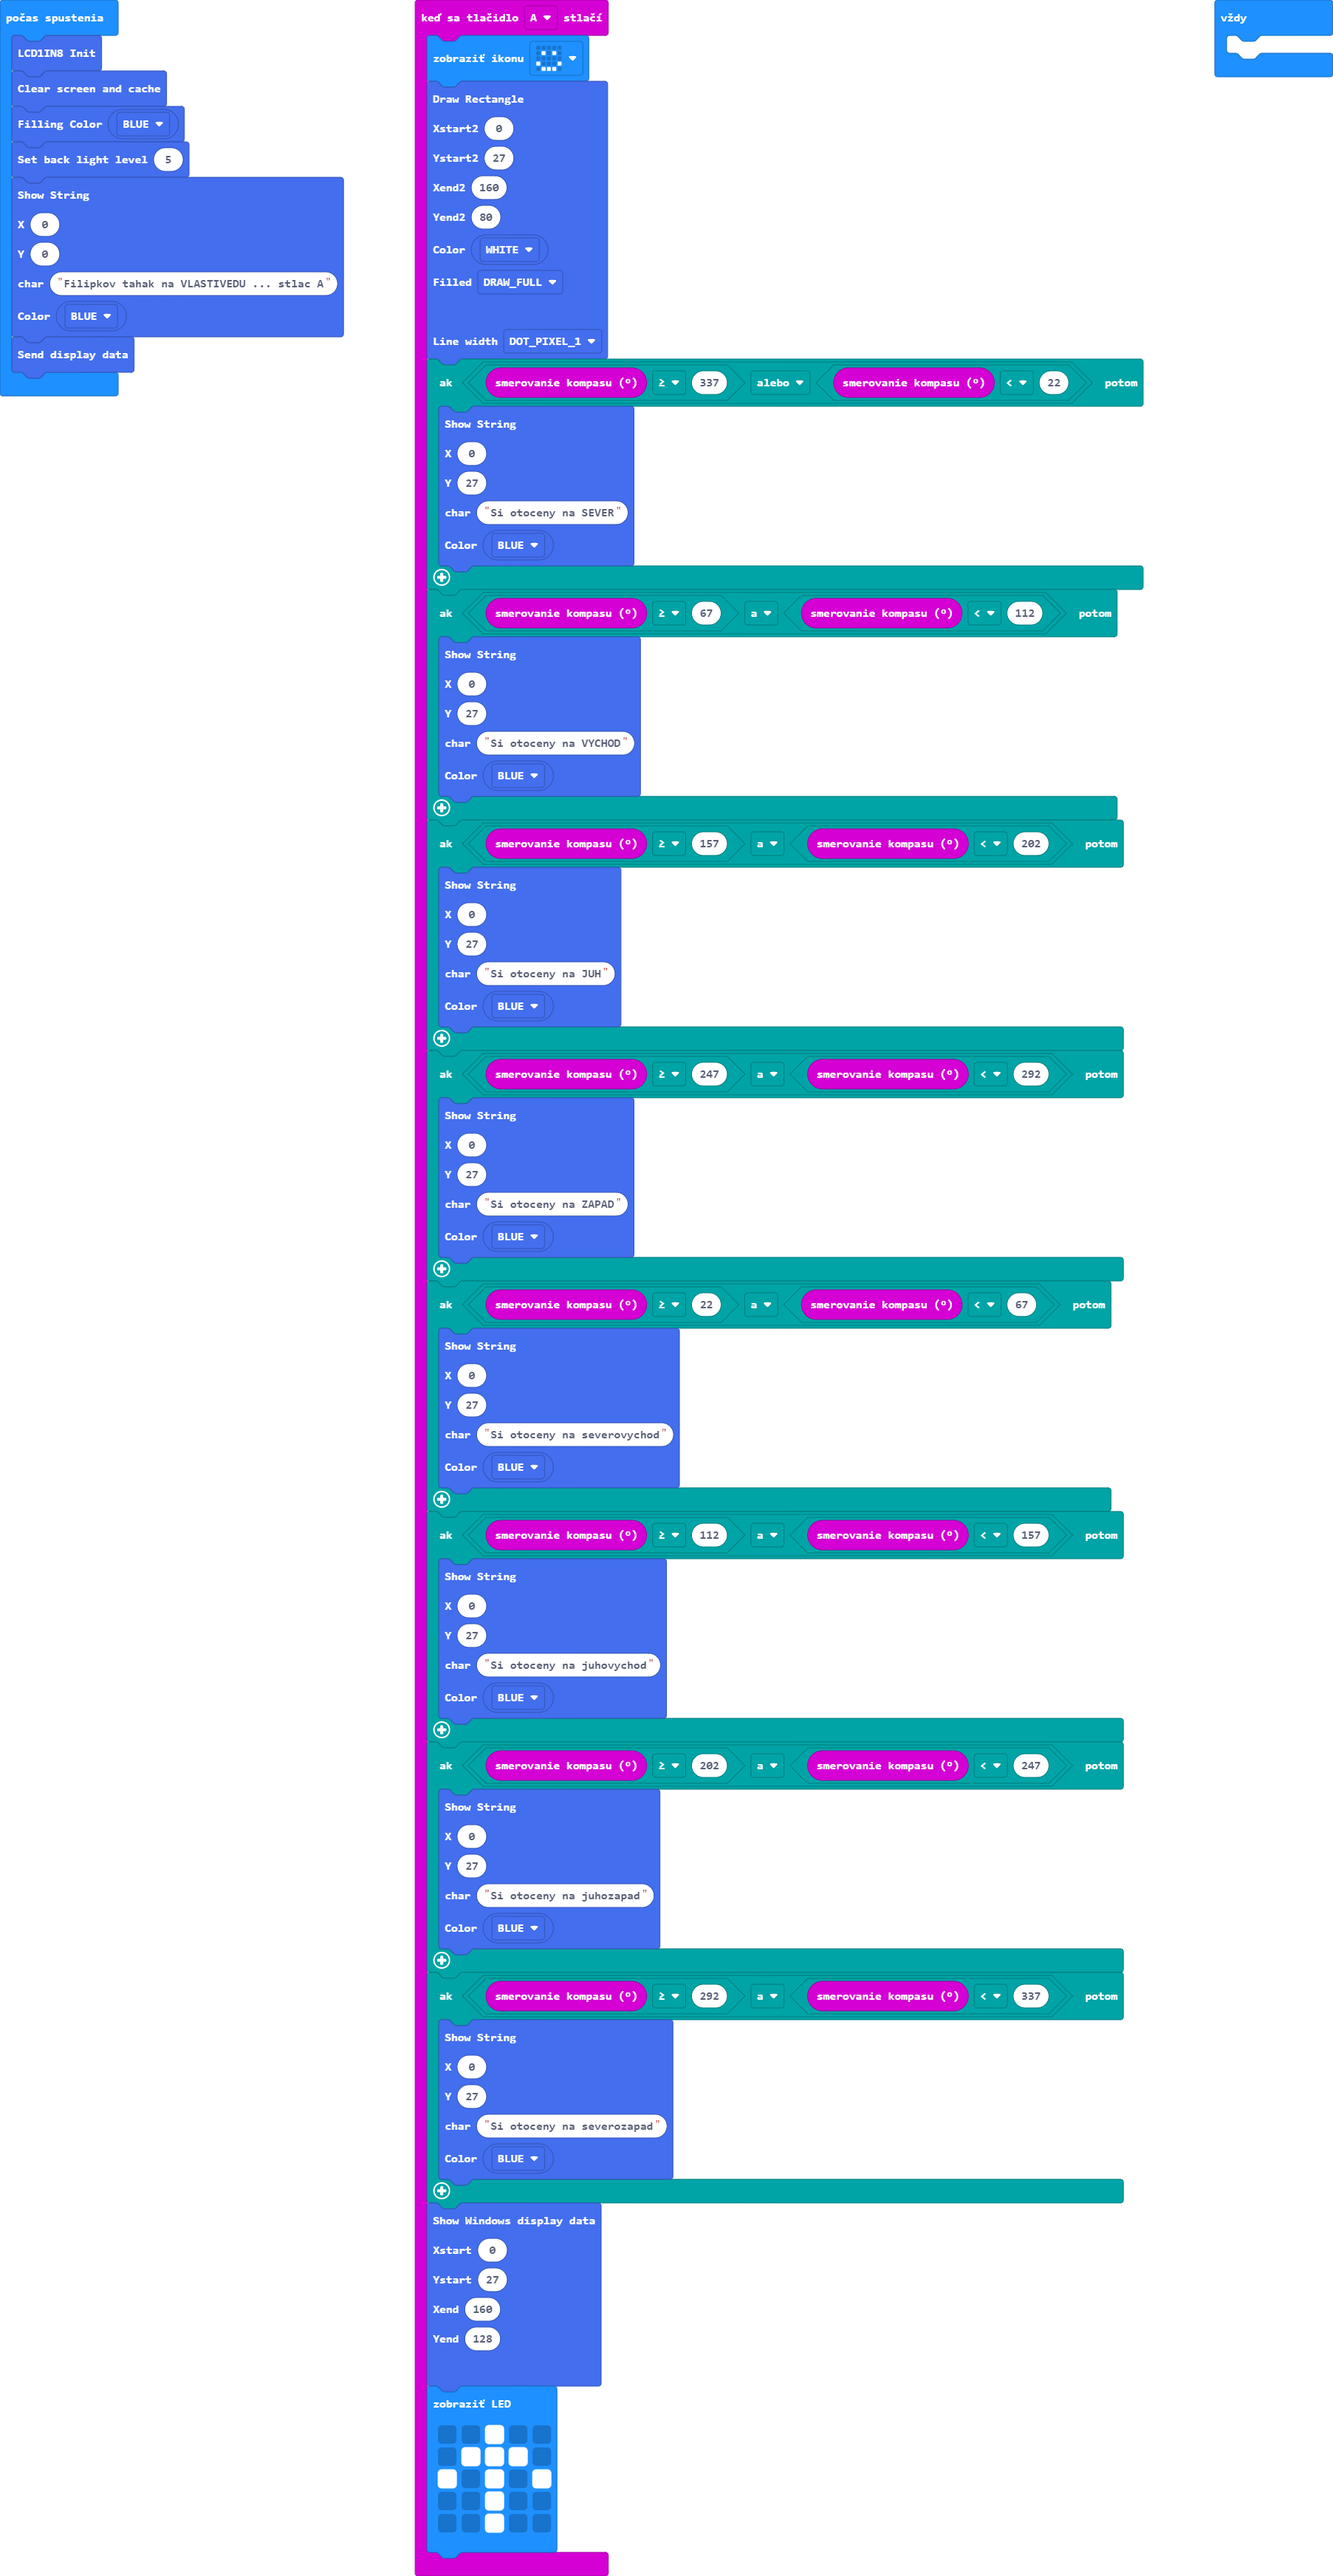
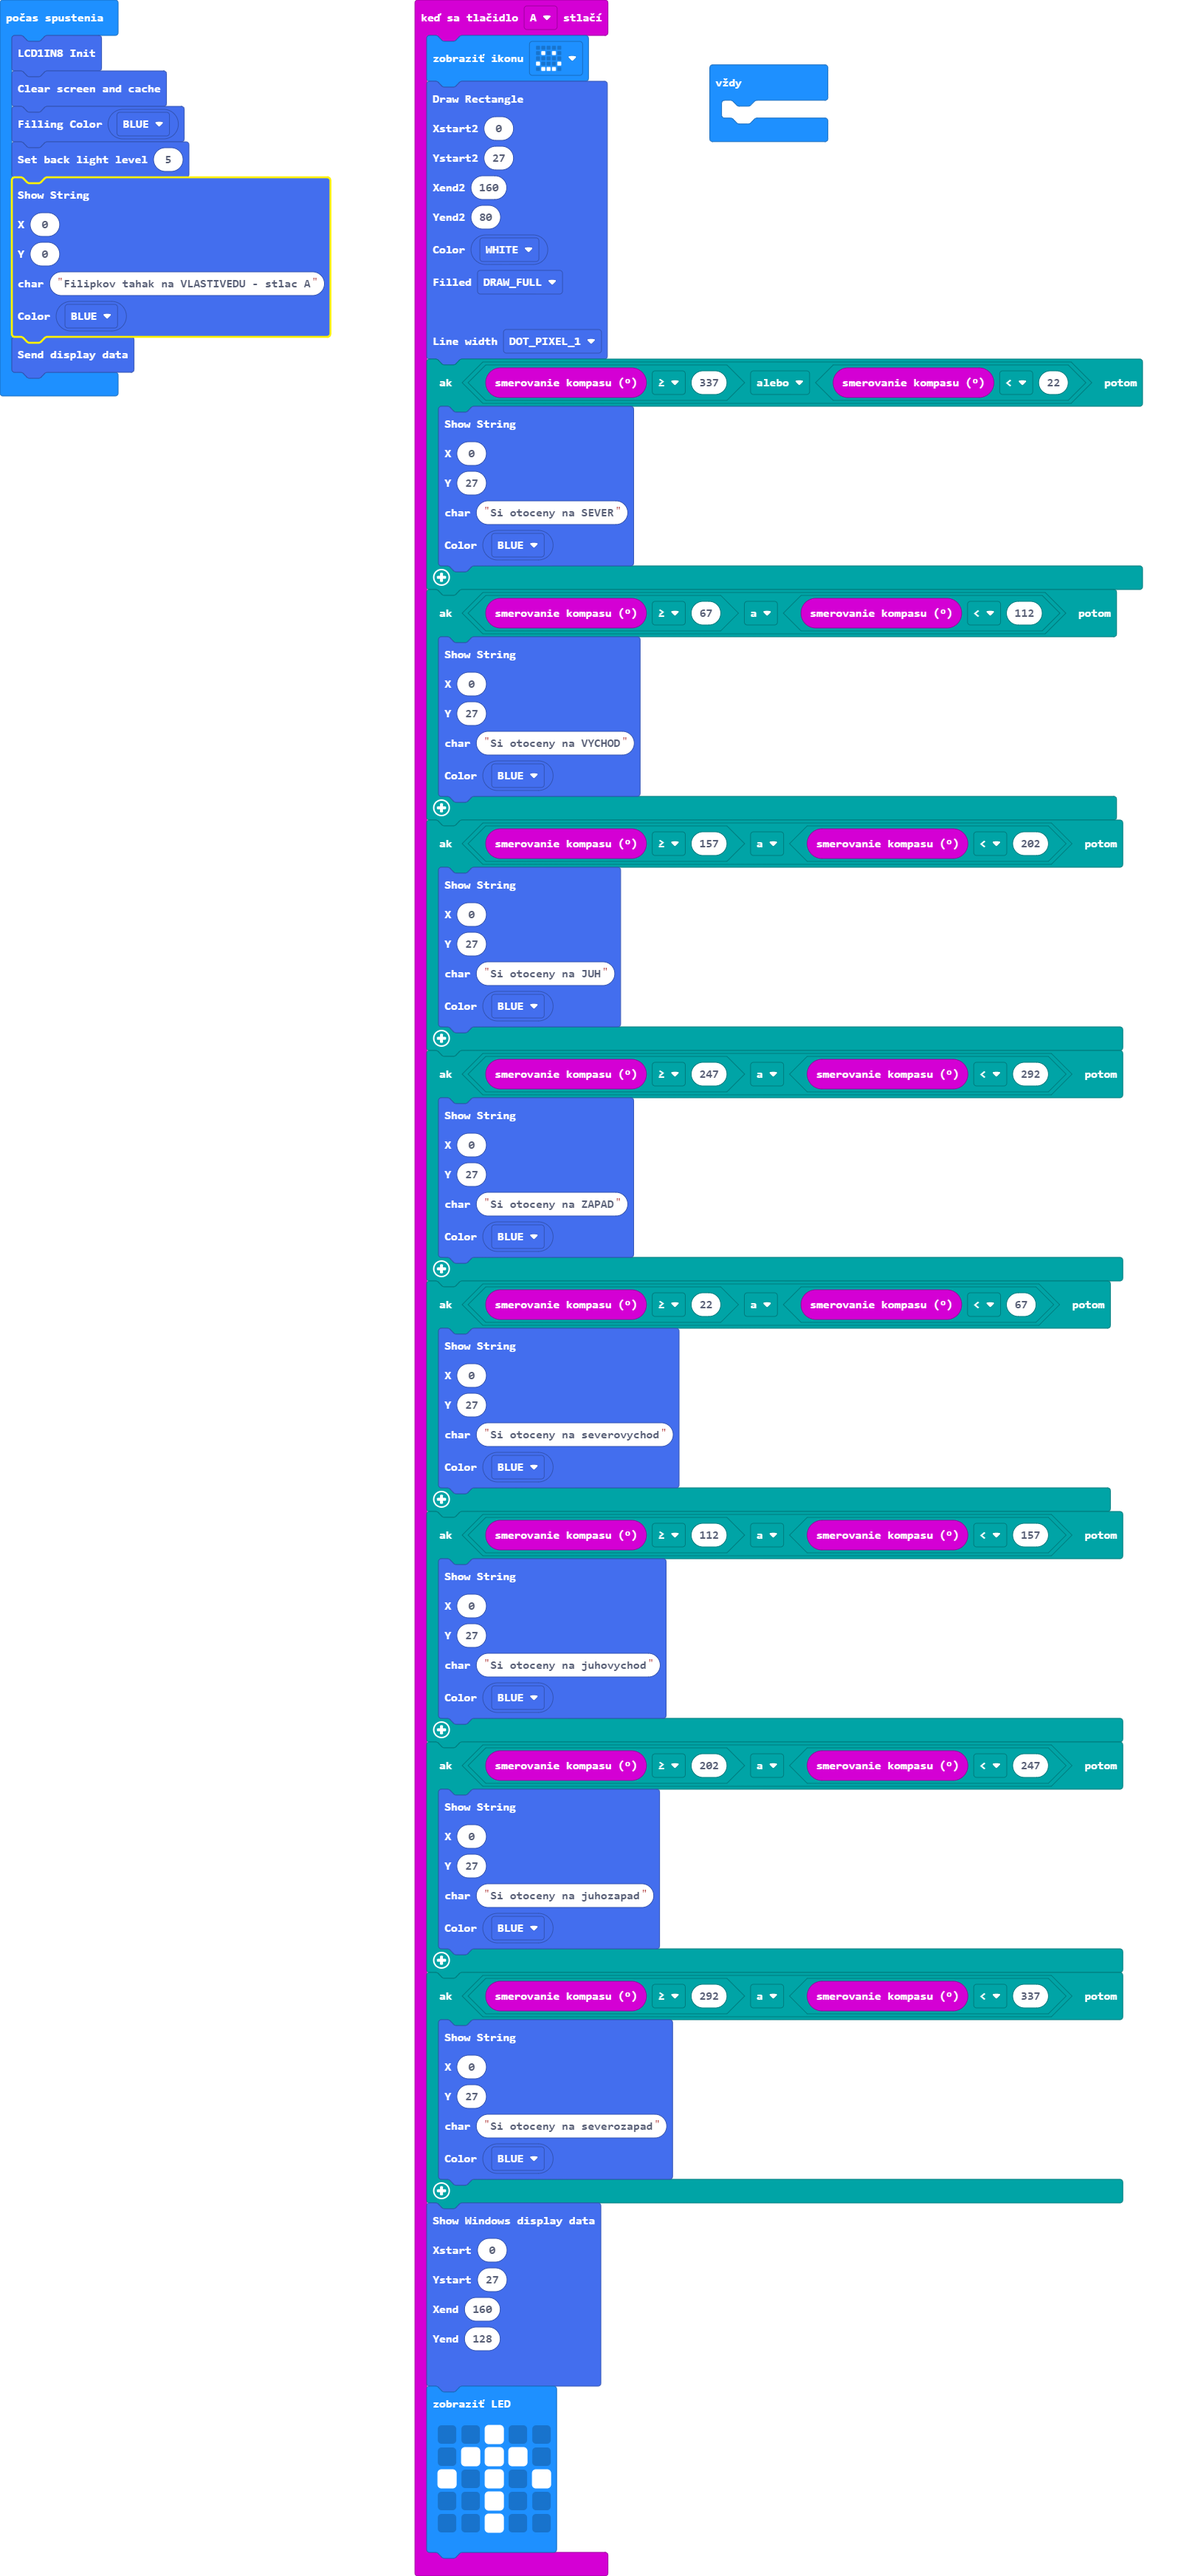
Aktualizovať main.blocks, main.ts

diff --git a/main.ts b/main.ts
@@ -94,7 +94,7 @@ LCD1IN8.LCD_SetBL(5)
 LCD1IN8.DisString(
 0,
 0,
-"Filipkov tahak na VLASTIVEDU ... stlac A",
+"Filipkov tahak na VLASTIVEDU - stlac A",
 LCD1IN8.Get_Color(LCD_COLOR.BLUE)
 )
 LCD1IN8.LCD_Display()
